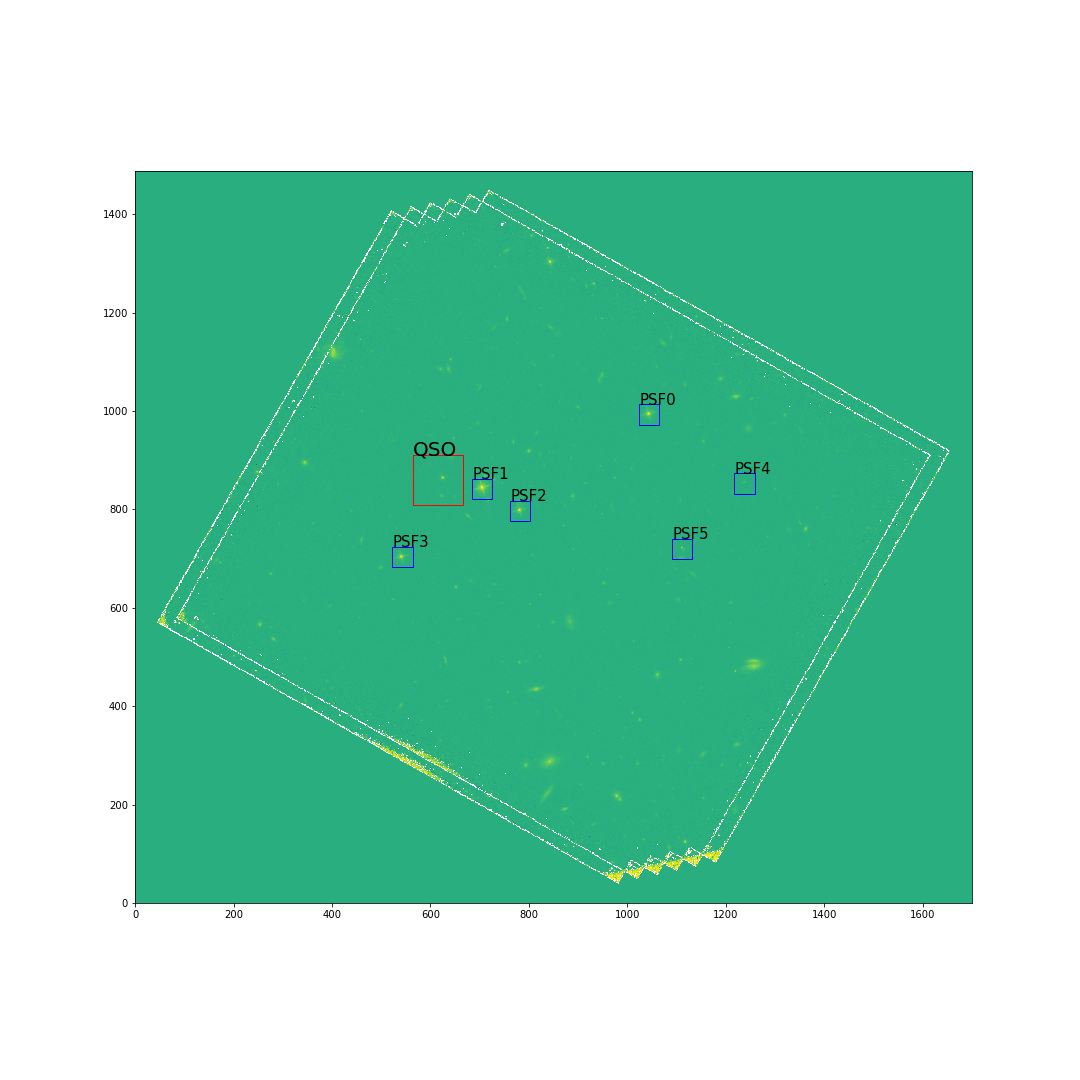
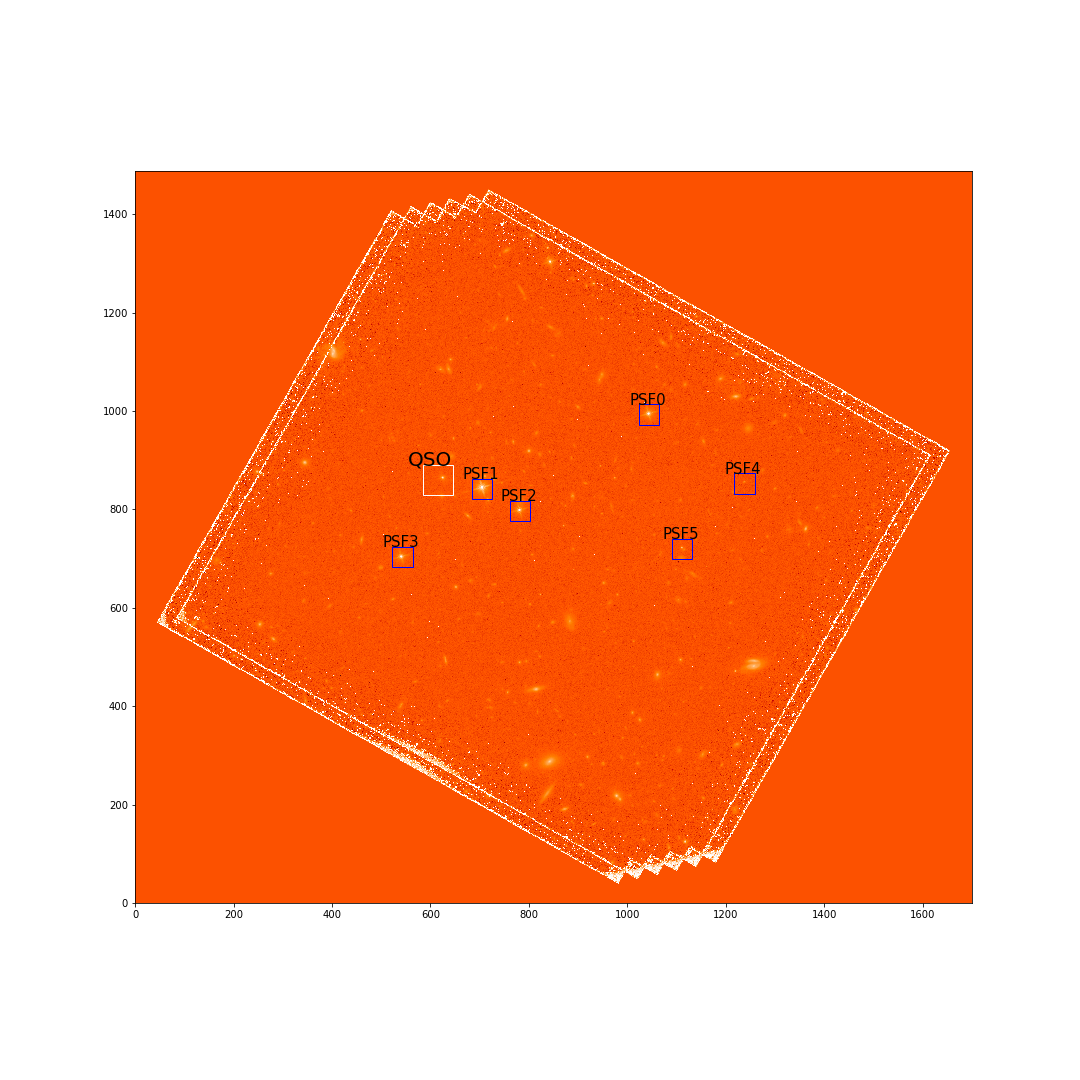
write scripts for compare the SB_profile for PSF and QSO. Not include mask yet.

diff --git a/py_tools/flux_profile.py b/py_tools/flux_profile.py
@@ -13,6 +13,7 @@ import numpy as np
 from regions import PixCoord, CirclePixelRegion 
 import astropy.io.fits as pyfits
 import matplotlib.pyplot as plt
+from matplotlib.ticker import AutoMinorLocator
 
 def pix_region(center=([49,49]), radius=5):
     '''
@@ -82,8 +83,8 @@ def flux_profile(image, center, radius=35, grids=20, ifplot=True, fits_plot=True
         for i in range(grids):
             ax.add_patch(regions[i].as_patch(facecolor='none', edgecolor='orange'))
         plt.colorbar(cax)
+        plt.show()
     if ifplot == True:
-        from matplotlib.ticker import AutoMinorLocator
         minorLocator = AutoMinorLocator()
         fig, ax = plt.subplots()
         plt.plot(r_grids, r_flux, 'x-')
@@ -99,7 +100,7 @@ def flux_profile(image, center, radius=35, grids=20, ifplot=True, fits_plot=True
     return r_flux, r_grids, regions
 
 def SB_profile(image, center, radius=35, grids=20,
-               ifplot=True, fits_plot=True, if_mask=False,
+               ifplot=False, fits_plot=False, if_mask=False,
                mask_NO=1, mask_reg=['default.reg']):
     '''
     Derive the SB profile of one image start at the center.
@@ -147,8 +148,8 @@ def SB_profile(image, center, radius=35, grids=20,
         for i in range(grids):
             ax.add_patch(regions[i].as_patch(facecolor='none', edgecolor='orange'))
         plt.colorbar(cax)
+        plt.show()
     if ifplot == True:
-        from matplotlib.ticker import AutoMinorLocator
         minorLocator = AutoMinorLocator()
         fig, ax = plt.subplots()
         plt.plot(r_grids, r_SB, 'x-')
@@ -162,6 +163,57 @@ def SB_profile(image, center, radius=35, grids=20,
         plt.grid(which="minor")
         plt.show()
     return r_SB, r_grids
+
+def PSF_SB_compare(psfs, masks=['default.reg'], radius=15, grids=20):
+    psfs_NO = len(psfs)
+    center = (psfs[0].shape[0]/2, psfs[0].shape[1]/2 )
+    minorLocator = AutoMinorLocator()
+    fig, ax = plt.subplots()
+    for i in range(psfs_NO):
+        if i ==0:
+            r_SB, r_grids = SB_profile(psfs[i], center, radius=radius, grids=grids, fits_plot=True)
+        else:
+            r_SB, r_grids = SB_profile(psfs[i], center, radius=radius, grids=grids)
+        r_SB /= r_SB[0]      #normalize the curves from the central part.
+        plt.plot(r_grids, r_SB, 'x-', label="PSF{0}".format(i))
+        plt.legend()
+    ax.xaxis.set_minor_locator(minorLocator)
+    plt.tick_params(which='both', width=2)
+    plt.tick_params(which='major', length=7)
+    plt.tick_params(which='minor', length=4, color='r')
+    plt.grid()
+    ax.set_ylabel("Total Flux")
+    ax.set_xlabel("Pixels")
+    plt.grid(which="minor")
+    plt.show()
+
+def SB_compare(QSO, psfs, masks=['default.reg'], radius=15, grids=20):
+    minorLocator = AutoMinorLocator()
+    fig, ax = plt.subplots()
+    center_QSO = (QSO.shape[0]/2, QSO.shape[1]/2 )
+    r_SB, r_grids = SB_profile(QSO, center=center_QSO, radius=radius, grids=grids, fits_plot=True)
+    r_SB /= r_SB[0]
+    plt.plot(r_grids, r_SB, 'x-', label="QSO", linewidth=3)
+    plt.legend()
+    psfs_NO = len(psfs)
+    center = (psfs[0].shape[0]/2, psfs[0].shape[1]/2)
+    for i in range(psfs_NO):
+        if i ==0:
+            r_SB, r_grids = SB_profile(psfs[i], center, radius=radius, grids=grids)
+        else:
+            r_SB, r_grids = SB_profile(psfs[i], center, radius=radius, grids=grids)
+        r_SB /= r_SB[0]      #normalize the curves from the central part.
+        plt.plot(r_grids, r_SB, 'x-', label="PSF{0}".format(i))
+        plt.legend()
+    ax.xaxis.set_minor_locator(minorLocator)
+    plt.tick_params(which='both', width=2)
+    plt.tick_params(which='major', length=7)
+    plt.tick_params(which='minor', length=4, color='r')
+    plt.grid()
+    ax.set_ylabel("Total Flux")
+    ax.set_xlabel("Pixels")
+    plt.grid(which="minor")
+    plt.show()
 
 def string_find_between( s, first, last ):
     try:
@@ -210,3 +262,4 @@ def cr_mask(image, filename='test_circle.reg'):
     mask_box_part = mask[x_edge:x_edge+box_size[0],y_edge: y_edge + box_size[1]]
     mask_box_part *= box
     return mask
+

diff --git a/py_tools/cut_image.py b/py_tools/cut_image.py
@@ -33,16 +33,16 @@ def cut_center_bright(image, center, radius):
 def save_loc_png(img, center_QSO, c_psf_list):
     fig = plt.figure(figsize=(15,15))
     ax=fig.add_subplot(1,1,1)
-    cax=ax.imshow(np.log10(img+0.5),origin='lower', vmax=2.1)
-    QSO_box_size = 50
+    cax=ax.imshow(np.log10(img+0.15),origin='lower', cmap='gist_heat', interpolation='nearest', vmax=2.1)
+    QSO_box_size = 30
     QSO_reg = pix_region(center_QSO, radius= QSO_box_size)
     QSO_mask = QSO_reg.to_mask(mode='center')
-    ax.text(center_QSO[0]-QSO_box_size, center_QSO[1]+QSO_box_size, 'QSO', fontsize=20)
-    ax.add_patch(QSO_mask.bbox.as_patch(facecolor='none', edgecolor='red'))
+    ax.text(center_QSO[0]-2*QSO_box_size, center_QSO[1]+QSO_box_size, 'QSO', fontsize=20)
+    ax.add_patch(QSO_mask.bbox.as_patch(facecolor='none', edgecolor='white'))
     PSF_box_size = 20
     for i in range(len(c_psf_list)):
         PSF_reg = pix_region(c_psf_list[i], radius= PSF_box_size)
         PSF_mask = PSF_reg.to_mask(mode='center')
         ax.add_patch(PSF_mask.bbox.as_patch(facecolor='none', edgecolor='blue'))
-        ax.text(c_psf_list[i][0]-PSF_box_size, c_psf_list[i][1]+PSF_box_size, 'PSF{0}'.format(i), fontsize=15)
+        ax.text(c_psf_list[i][0]-2*PSF_box_size, c_psf_list[i][1]+PSF_box_size, 'PSF{0}'.format(i), fontsize=15)
         fig.savefig('QSO_PSF_loc.png')

diff --git a/fits_image/CID70/psf_cut_analysis/PSFs_profile.py b/fits_image/CID70/psf_cut_analysis/PSFs_profile.py
@@ -1,0 +1,35 @@
+#!/usr/bin/env python2
+# -*- coding: utf-8 -*-
+"""
+Created on Mon Mar  5 15:56:58 2018
+
+@author: Dartoon
+
+PSF analysis
+"""
+
+import sys
+sys.path.insert(0,'../../../py_tools')
+from cut_image import cut_center_bright, save_loc_png
+import astropy.io.fits as pyfits
+import numpy as np
+from flux_profile import PSF_SB_compare,SB_compare
+
+psf_NO=6 # The number of the psf.
+for i in range(psf_NO):
+    fitsFile = pyfits.open('PSF{0}.fits'.format(i))
+    PSF = fitsFile[0].data
+    if i == 0 :
+        psf_list = np.empty([psf_NO, PSF.shape[0], PSF.shape[1]])
+        psf_list[0] = PSF
+    else:
+        psf_list[i] = PSF
+#    PSFs= PSFs.append(PSF)
+
+fitsFile = pyfits.open('DIC70_cutout.fits'.format(i))
+QSO = fitsFile[0].data
+              
+              
+#PSF_SB_compare(psf_list, radius=20, grids=20)
+SB_compare(QSO, psf_list, radius=20, grids=20)
+

diff --git a/fits_image/CID70/psf_cut_analysis/cutout.py b/fits_image/CID70/psf_cut_analysis/cutout.py
@@ -11,16 +11,14 @@ Cut PSF and QSO for DIC70
 import sys
 sys.path.insert(0,'../../../py_tools')
 from cut_image import cut_center_bright, save_loc_png
-import matplotlib.pylab as plt
 import astropy.io.fits as pyfits
-import numpy as np
 ID = 'DIC70'
 
 fitsFile = pyfits.open('../swarp/coadd.fits')
 img = fitsFile[0].data 
 center_QSO = (615, 860)
 QSO = cut_center_bright(image=img, center=center_QSO, radius=50)
-pyfits.PrimaryHDU(QSO).writeto('QSO_cutout_{0}.fits'.format(ID),overwrite=True)
+pyfits.PrimaryHDU(QSO).writeto('{0}_cutout.fits'.format(ID),overwrite=True)
 c_psf_list = [(1044, 993), (705, 842), (782, 797), (543, 704), (1238, 853), (1111, 720)]
 
 for i in range(len(c_psf_list)):

diff --git a/test/test-flux_profile.py b/test/test-flux_profile.py
@@ -28,9 +28,9 @@ fitsFile = pyfits.open('psf.fits')
 img = fitsFile[0].data 
 #region = pix_region(center=([49,49]), radius=5)
 #flux_in_region(img, region)
-SB_profile(image=img, center=([76.582527,70.78383]),ifplot=True,
-           fits_plot=True)
-
 #SB_profile(image=img, center=([76.582527,70.78383]),ifplot=True,
-#           fits_plot=True, if_mask = True, mask_NO=2, mask_reg=['test_circle.reg', 'test_box.reg'])
+#           fits_plot=True)
+
+SB_profile(image=img, center=([76.582527,70.78383]),ifplot=True,
+           fits_plot=True, if_mask = True, mask_NO=2, mask_reg=['test_circle.reg', 'test_box.reg'])
 
